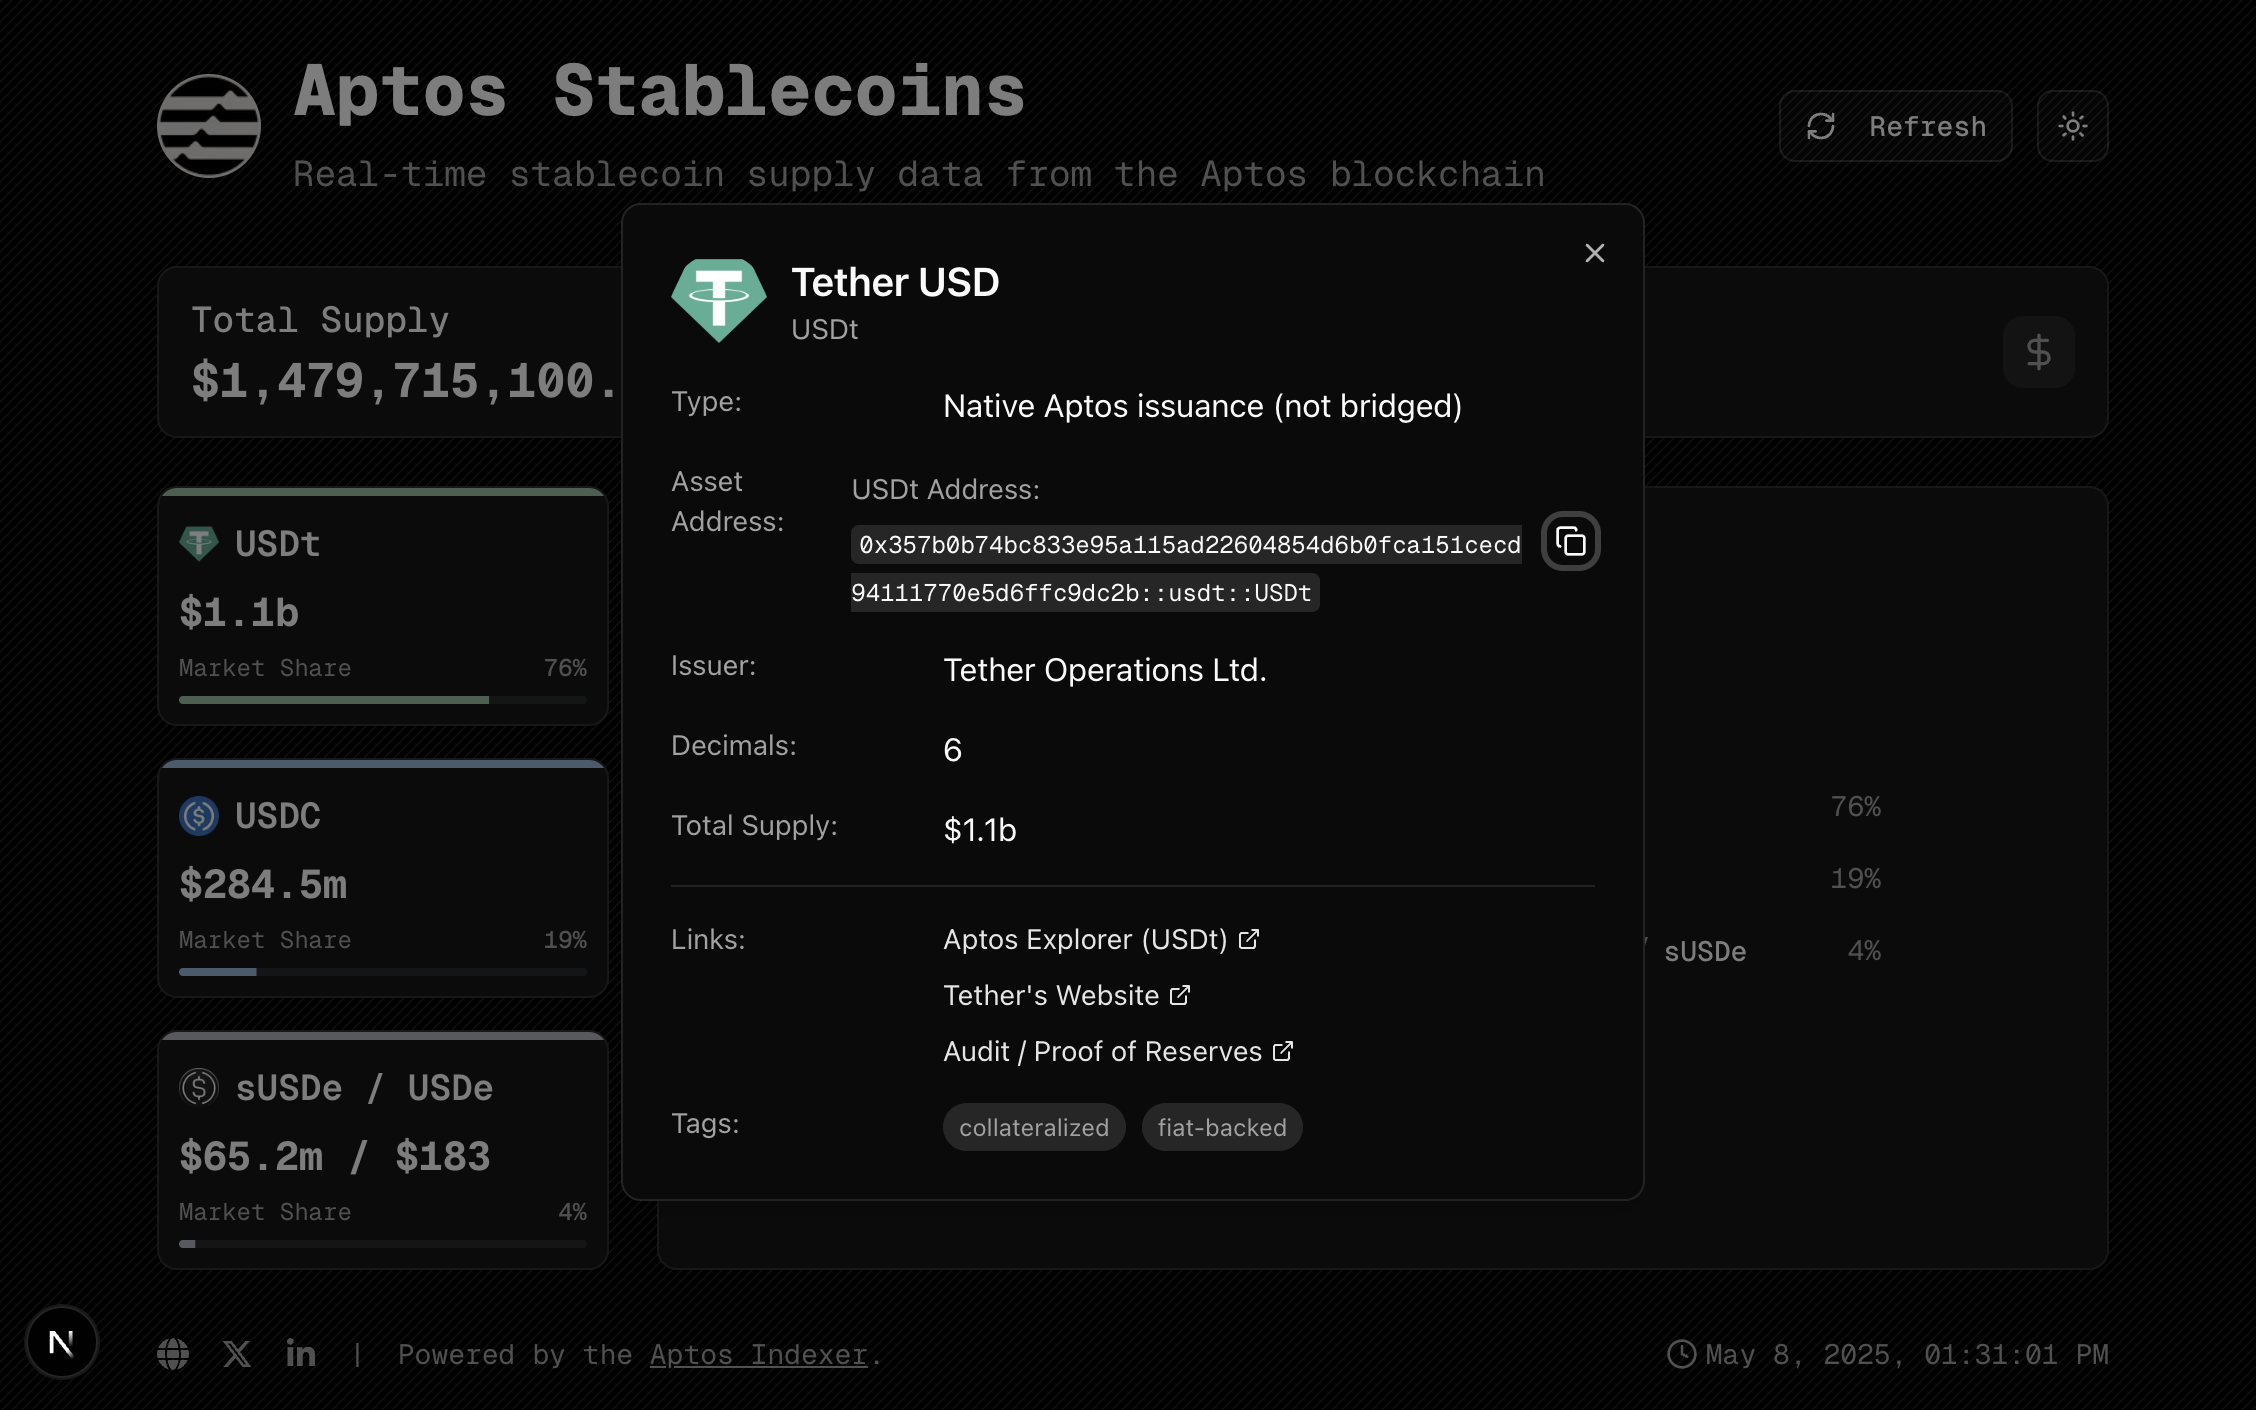
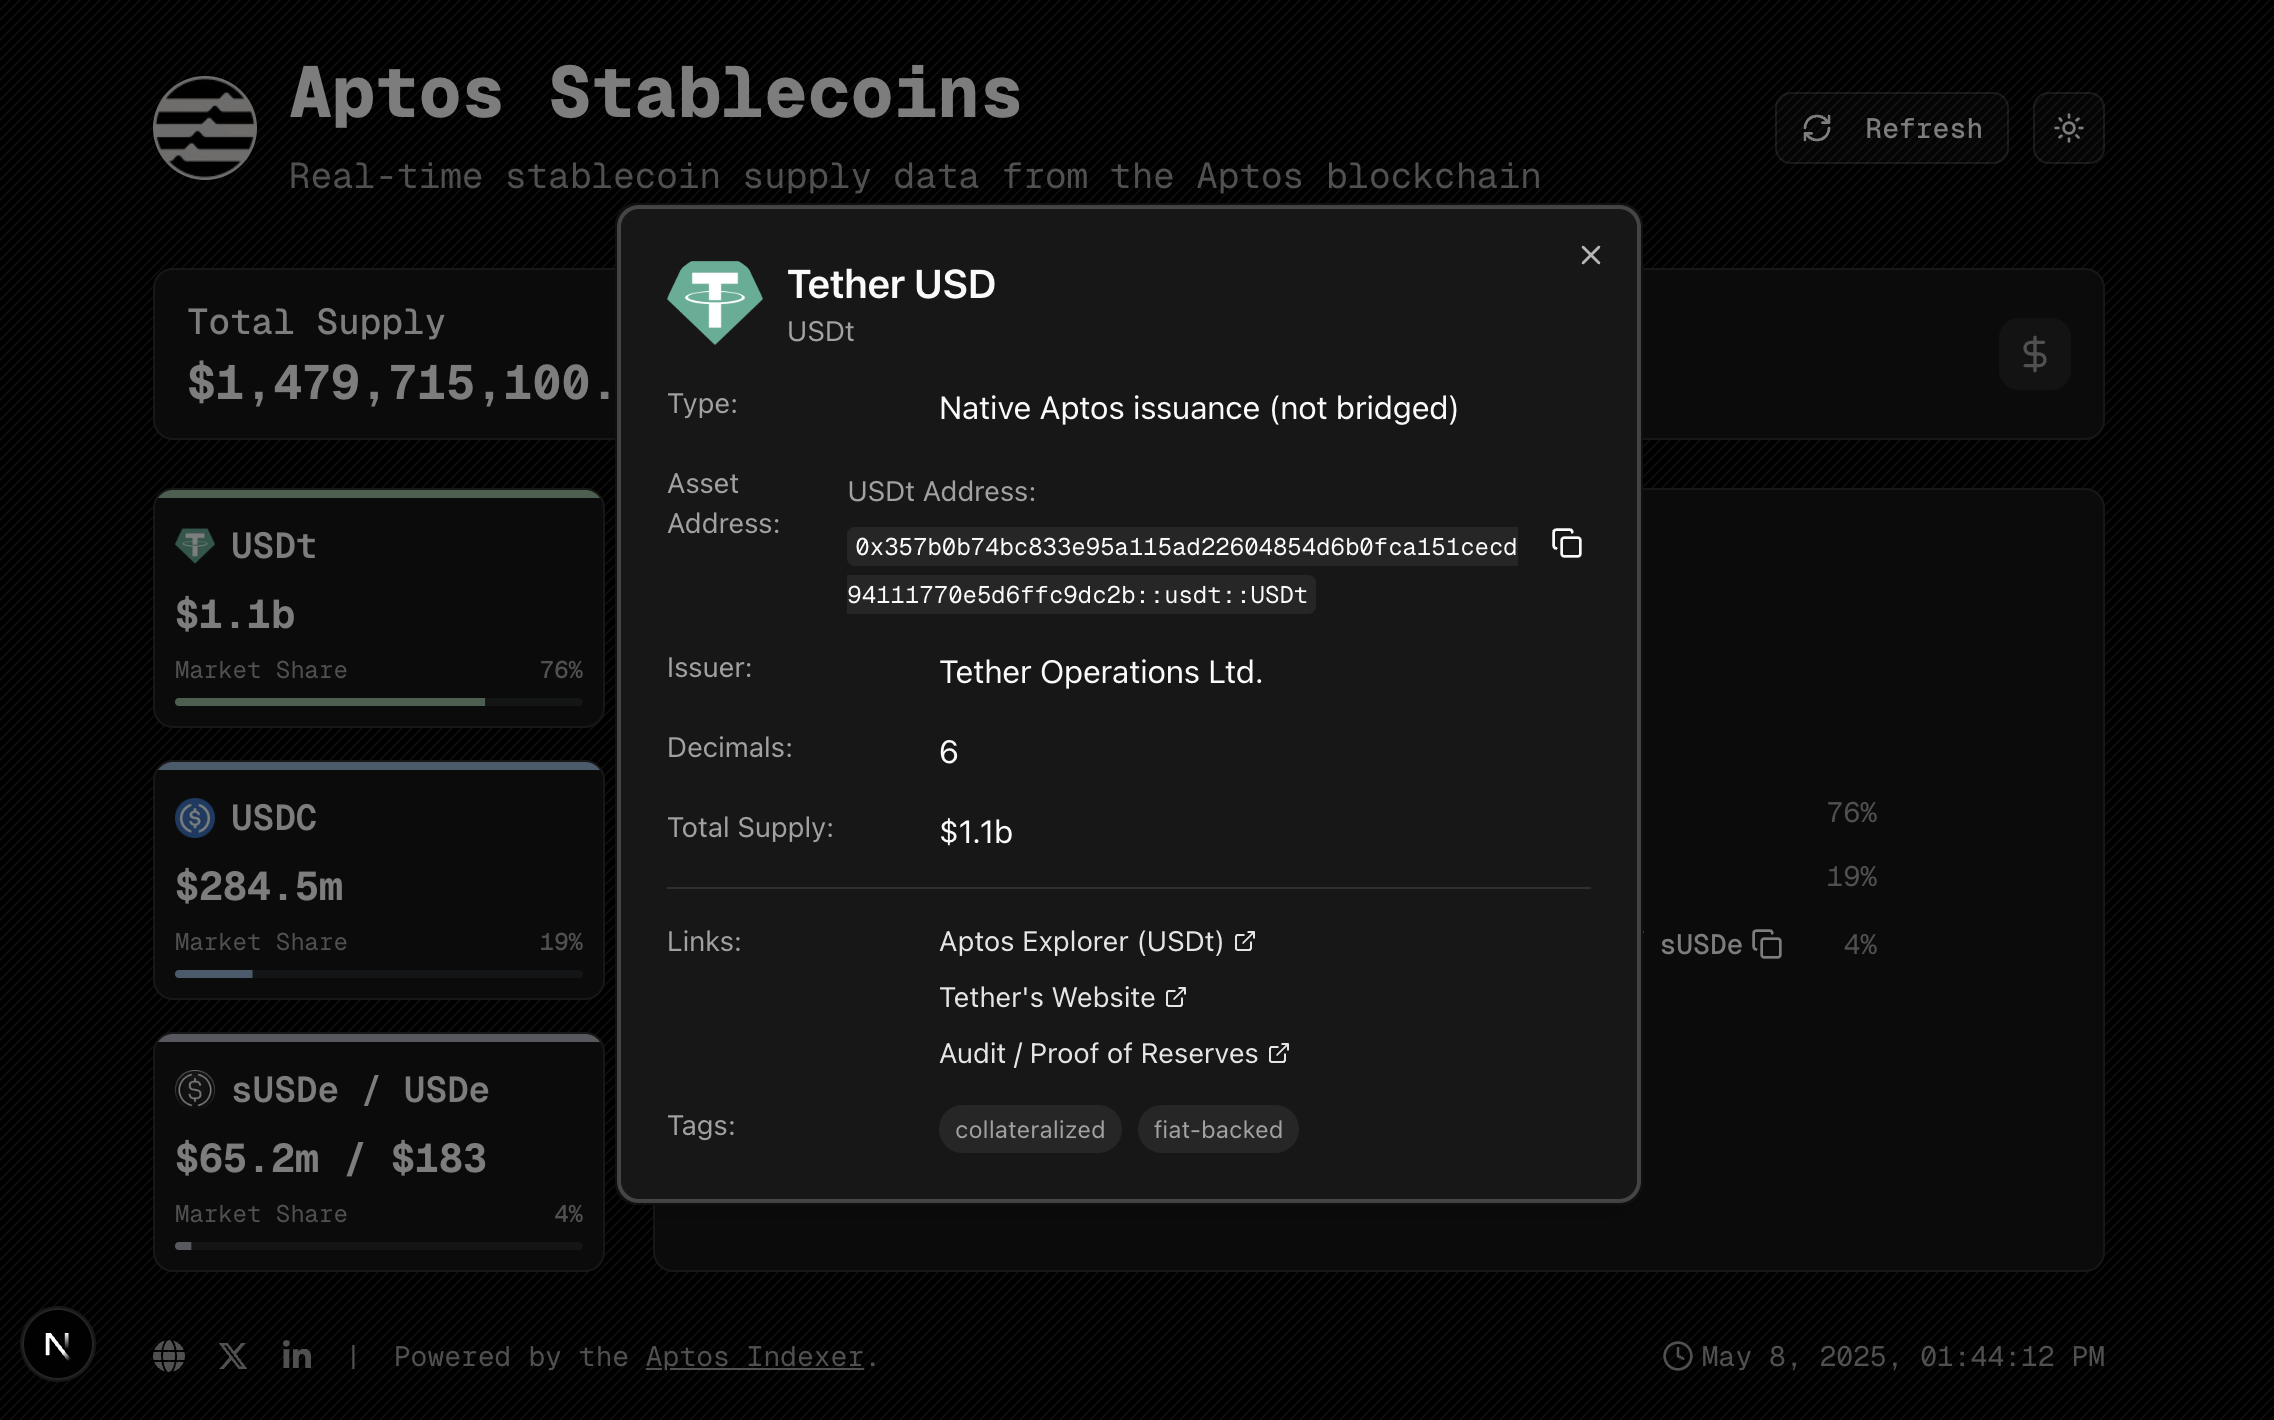
commit

diff --git a/components/Dialog.tsx b/components/Dialog.tsx
@@ -116,7 +116,7 @@ const TokenDialog: React.FC<TokenDialogProps> = ({
 
   return (
     <Dialog open={isOpen} onOpenChange={handleClose}>
-      <DialogContent className="max-w-2xl">
+      <DialogContent className="max-w-2xl bg-card">
         <DialogHeader>
           <div className="flex items-center gap-3">
             <div className="relative w-12 h-12">
